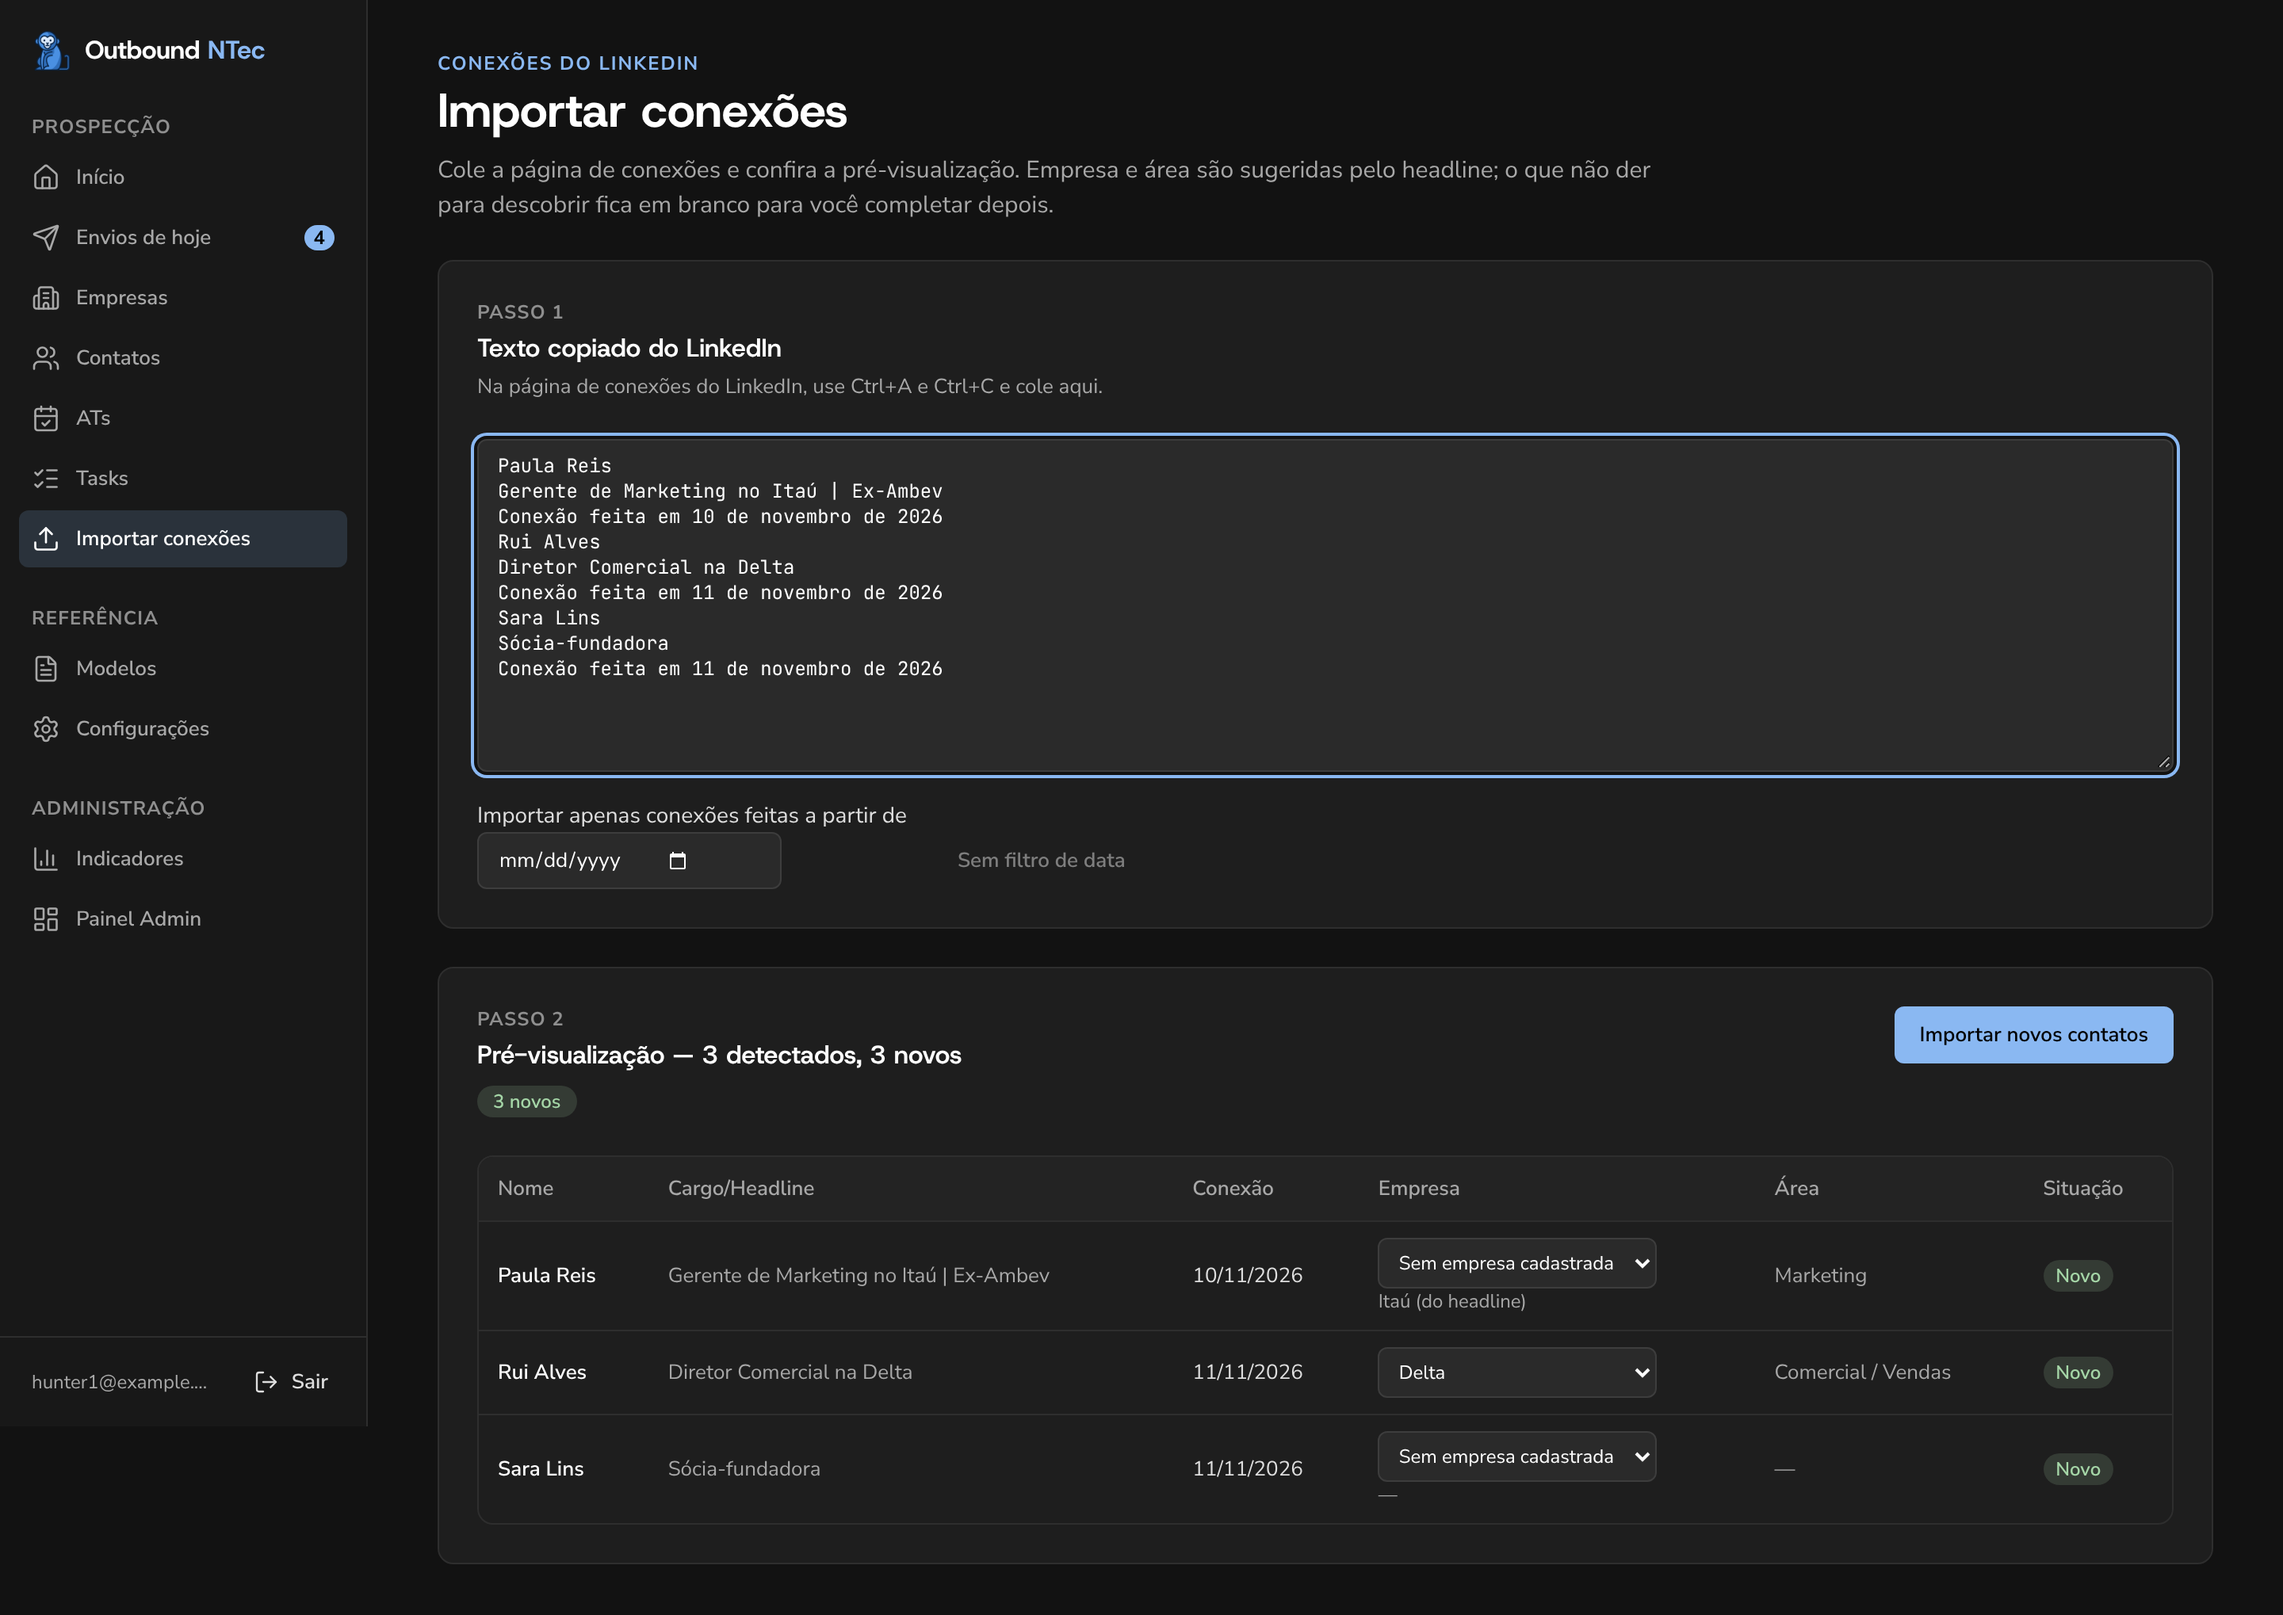
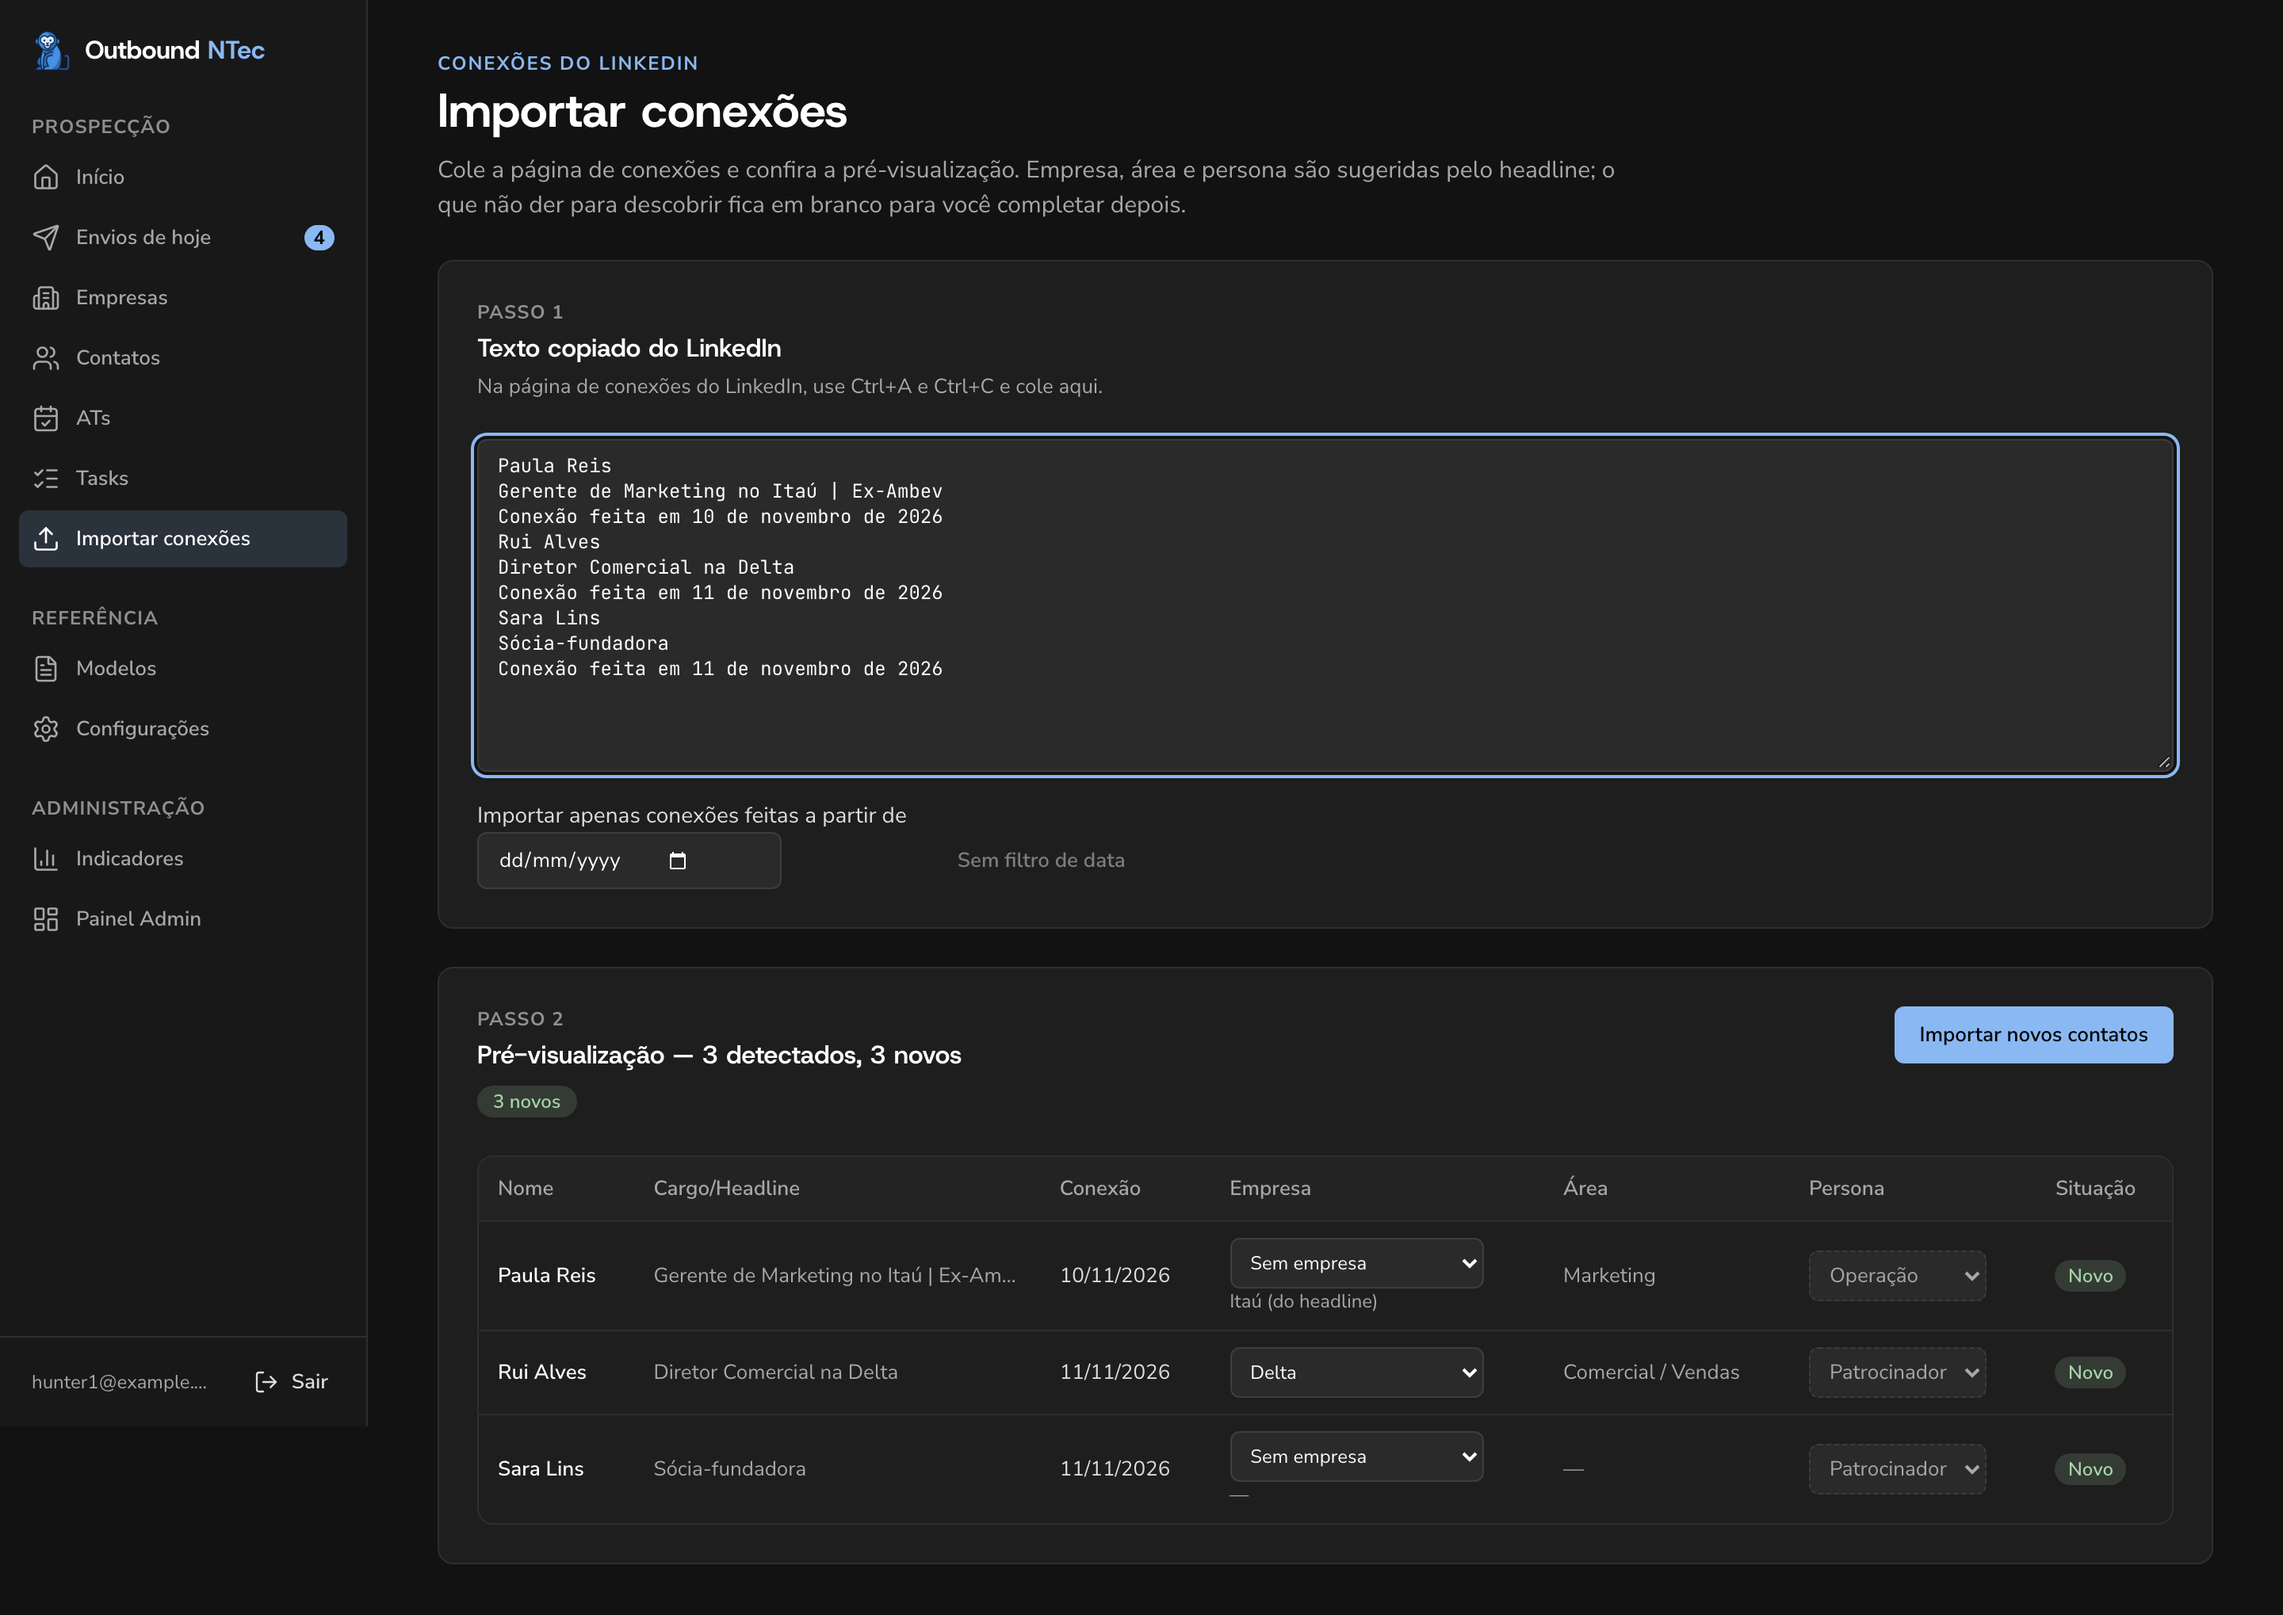
feat(importar): sugere a persona das conexões importadas
A prévia da importação ganha a coluna Persona, pré-preenchida pela
sugestão do cargo. Só a persona trocada pelo hunter entra no payload; sem
troca o contato fica com persona sugerida. A tabela continua sem rolagem
em 1280 px.

diff --git a/e2e/importar.spec.ts b/e2e/importar.spec.ts
@@ -71,4 +71,85 @@ test.describe("Importar conexões", () => {
     // Trocar o filtro volta para a primeira página.
     await expect(page.getByText("1–50 de 60 conexões")).toBeVisible();
   });
+
+  test.describe("persona na prévia", () => {
+    const PERSONAS_COLADO = [
+      "Ana Souza",
+      "Diretor de TI",
+      "Conexão feita em 11 de novembro de 2026",
+      "Bruno Lima",
+      "Analista de Dados",
+      "Conexão feita em 11 de novembro de 2026",
+      "Carla Dias",
+      "Gerente de Compras",
+      "Conexão feita em 11 de novembro de 2026",
+    ].join("\n");
+
+    const rotuloMostrado = (sel: import("@playwright/test").Locator) =>
+      sel.evaluate((el) => (el as HTMLSelectElement).selectedOptions[0]!.text);
+
+    async function colar(page: import("@playwright/test").Page) {
+      await page.goto("/importar");
+      await page.getByRole("textbox", { name: "Texto copiado do LinkedIn" }).fill(PERSONAS_COLADO);
+      await expect(page.getByText("3 detectados, 3 novos")).toBeVisible();
+    }
+
+    test("mostra a persona sugerida pelo cargo, sem o prefixo Owner", async ({ page }) => {
+      await colar(page);
+      const sugeridas = page.getByLabel("Persona (sugerida)");
+      await expect(sugeridas).toHaveCount(3);
+      expect(await rotuloMostrado(sugeridas.nth(0))).toBe("Tecnologia");
+      expect(await rotuloMostrado(sugeridas.nth(1))).toBe("Processo");
+      expect(await rotuloMostrado(sugeridas.nth(2))).toBe("Operação");
+    });
+
+    test("sem troca, nenhuma linha do POST leva persona", async ({ page }) => {
+      await colar(page);
+      await page.getByRole("button", { name: "Importar novos contatos" }).click();
+      await expect(page.getByText("3 contatos importados")).toBeVisible();
+      const [m] = await mutations();
+      const rows = JSON.parse(m!.body) as Record<string, unknown>[];
+      expect(rows).toHaveLength(3);
+      for (const r of rows) expect(r).not.toHaveProperty("persona");
+      expect(new Set(rows.map((r) => Object.keys(r).sort().join(","))).size).toBe(1);
+    });
+
+    test("trocar a persona de uma linha grava só nela; as outras ficam nulas", async ({ page }) => {
+      await colar(page);
+      await page.getByLabel("Persona (sugerida)").nth(1).selectOption("patrocinador_executivo");
+      // Trocada: deixa de ser sugerida (sem borda tracejada) e mostra a escolha.
+      await expect(page.getByLabel("Persona (sugerida)")).toHaveCount(2);
+      const trocada = page.getByRole("combobox", { name: "Persona", exact: true });
+      await expect(trocada).toHaveCount(1);
+      expect(await rotuloMostrado(trocada)).toBe("Patrocinador Executivo");
+
+      await page.getByRole("button", { name: "Importar novos contatos" }).click();
+      await expect(page.getByText("3 contatos importados")).toBeVisible();
+      const [m] = await mutations();
+      const rows = JSON.parse(m!.body) as Record<string, unknown>[];
+      expect(rows[1]).toMatchObject({ name: "Bruno Lima", persona: "patrocinador_executivo" });
+      expect(rows[0]).not.toHaveProperty("persona");
+      expect(rows[2]).not.toHaveProperty("persona");
+      // Aqui as chaves diferem entre linhas de propósito: o supabase-js manda `columns` com a união
+      // das chaves e o hook pede `missing=default`, então a linha sem a chave usa o padrão da coluna
+      // (NULL = sugerida).
+      // Diferente de empresa e área (NOT NULL), que recusariam o lote.
+      expect(m!.query).toContain("columns=");
+      expect(m!.query).toContain("persona");
+    });
+  });
+
+  test.describe("em 1280 px", () => {
+    test.use({ viewport: { width: 1280, height: 800 } });
+
+    test("a tabela da prévia não tem rolagem horizontal", async ({ page }) => {
+      await page.goto("/importar");
+      await page.getByRole("textbox").first().fill(COLADO);
+      await expect(page.getByText("3 detectados, 3 novos")).toBeVisible();
+      await expect(page.getByLabel("Persona (sugerida)").first()).toBeVisible();
+      const caixa = page.locator("main table").locator("xpath=..");
+      const cabe = await caixa.evaluate((el) => el.scrollWidth <= el.clientWidth);
+      expect(cabe).toBe(true);
+    });
+  });
 });

diff --git a/src/components/importar/ImportPreview.tsx b/src/components/importar/ImportPreview.tsx
@@ -1,5 +1,6 @@
 import { useState } from "react";
 import { CompanySelect } from "@/components/CompanySelect";
+import { PersonaSelect } from "@/components/PersonaSelect";
 import { TablePagination } from "@/components/TablePagination";
 import { Button } from "@/components/ui/button";
 import { Card, CardContent, CardHeader, CardTitle } from "@/components/ui/card";
@@ -15,6 +16,7 @@ import { formatBR } from "@/lib/cadencia";
 import type { Company } from "@/lib/empresas";
 import type { ImportRow } from "@/lib/importar";
 import { paginate } from "@/lib/paginate";
+import type { Persona } from "@/lib/personas";
 
 /** Linhas por página na pré-visualização (o mesmo limite das outras tabelas). */
 const PAGE_SIZE = 50;
@@ -26,6 +28,8 @@ export function ImportPreview({
   companies,
   companyOf,
   onCompany,
+  personaOf,
+  onPersona,
   busy,
   onImport,
 }: {
@@ -34,6 +38,9 @@ export function ImportPreview({
   companies: readonly Company[];
   companyOf: (r: ImportRow) => string | null;
   onCompany: (key: string, id: string | null) => void;
+  /** Persona trocada à mão na linha (`null` = continua a sugerida pelo cargo). */
+  personaOf: (r: ImportRow) => Persona | null;
+  onPersona: (key: string, persona: Persona) => void;
   busy: boolean;
   onImport: () => void;
 }) {
@@ -80,6 +87,7 @@ export function ImportPreview({
                 <TableHead>Conexão</TableHead>
                 <TableHead>Empresa</TableHead>
                 <TableHead>Área</TableHead>
+                <TableHead>Persona</TableHead>
                 <TableHead>Situação</TableHead>
               </TableRow>
             </TableHeader>
@@ -89,7 +97,10 @@ export function ImportPreview({
                 return (
                   <TableRow key={`${r.name}-${page}-${i}`}>
                     <TableCell className="font-semibold text-heading">{r.name}</TableCell>
-                    <TableCell className="max-w-[360px] truncate text-muted-foreground">
+                    <TableCell
+                      className="max-w-56 truncate text-muted-foreground"
+                      title={r.headline}
+                    >
                       {r.headline || "—"}
                     </TableCell>
                     <TableCell className="whitespace-nowrap">{formatBR(r.connected_at)}</TableCell>
@@ -101,8 +112,8 @@ export function ImportPreview({
                               companies={companies}
                               value={companyOf(r)}
                               onChange={(id) => onCompany(r.key, id)}
-                              emptyLabel="Sem empresa cadastrada"
-                              className="h-8 w-44"
+                              emptyLabel="Sem empresa"
+                              className="h-8 w-40"
                             />
                           )}
                           {!companyOf(r) && (
@@ -115,6 +126,18 @@ export function ImportPreview({
                     </TableCell>
                     <TableCell className="whitespace-nowrap text-muted-foreground">
                       {novo ? (r.area ?? "—") : ""}
+                    </TableCell>
+                    <TableCell>
+                      {novo && (
+                        <PersonaSelect
+                          compact
+                          noBadge
+                          value={personaOf(r)}
+                          suggested={r.persona}
+                          onChange={(p) => onPersona(r.key, p)}
+                          className="w-28"
+                        />
+                      )}
                     </TableCell>
                     <TableCell>
                       <RowStatus row={r} />

diff --git a/src/routes/_authenticated/importar.tsx b/src/routes/_authenticated/importar.tsx
@@ -6,6 +6,7 @@ import { PasteCard } from "@/components/importar/PasteCard";
 import { useCompanies, useContacts, useImportContacts } from "@/hooks/useCadencia";
 import { normalizeKey, parseLinkedInConnections } from "@/lib/cadencia";
 import { buildImportRows, importPayload, importable, type ImportRow } from "@/lib/importar";
+import type { Persona } from "@/lib/personas";
 export const Route = createFileRoute("/_authenticated/importar")({
   head: () => ({
     meta: [
@@ -32,6 +33,8 @@ function Importar() {
   const { data: companies } = useCompanies();
   /** Empresa escolhida à mão por linha (sobrepõe a sugestão pelo headline). */
   const [chosen, setChosen] = useState<Record<string, string | null>>({});
+  /** Persona trocada à mão por linha; sem troca, o contato fica com a sugerida (persona nula). */
+  const [personas, setPersonas] = useState<Record<string, Persona>>({});
   const importMutation = useImportContacts();
 
   const existing = useMemo(
@@ -48,12 +51,13 @@ function Importar() {
 
   function runImport() {
     importMutation.mutate(
-      toImport.map((r) => importPayload(r, companyOf(r))),
+      toImport.map((r) => importPayload(r, companyOf(r), personas[r.key])),
       {
         onSuccess: (n) => {
           toast.success(`${n} contatos importados`);
           setText("");
           setChosen({});
+          setPersonas({});
           navigate({ to: "/contatos" });
         },
         onError: (e) => toast.error(e.message),
@@ -67,8 +71,9 @@ function Importar() {
         <p className="eyebrow">Conexões do LinkedIn</p>
         <h1 className="mt-1 text-title font-bold">Importar conexões</h1>
         <p className="mt-2 max-w-3xl text-body text-muted-foreground">
-          Cole a página de conexões e confira a pré-visualização. Empresa e área são sugeridas pelo
-          headline; o que não der para descobrir fica em branco para você completar depois.
+          Cole a página de conexões e confira a pré-visualização. Empresa, área e persona são
+          sugeridas pelo headline; o que não der para descobrir fica em branco para você completar
+          depois.
         </p>
       </header>
       <PasteCard text={text} onText={setText} fromDate={fromDate} onFromDate={setFromDate} />
@@ -80,6 +85,8 @@ function Importar() {
           companies={companies ?? []}
           companyOf={companyOf}
           onCompany={(key, id) => setChosen((m) => ({ ...m, [key]: id }))}
+          personaOf={(r) => personas[r.key] ?? null}
+          onPersona={(key, p) => setPersonas((m) => ({ ...m, [key]: p }))}
           busy={importMutation.isPending}
           onImport={runImport}
         />
